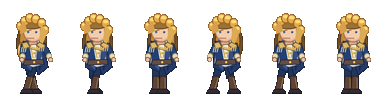
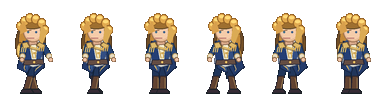
art(review): add Ionia coat and curl follow-through to walk

diff --git a/scripts/make-ionia-walk-review.py b/scripts/make-ionia-walk-review.py
@@ -14,7 +14,8 @@ def draw_pose(frame):
  def line(points,c,w=1):d.line([(P(x),P(y)) for x,y in points],fill=c,width=P(w),joint='curve')
  # all six contact poses have deliberately independent leg silhouettes
  phases=[(-8,7),(-5,4),(0,0),(7,-7),(4,-5),(0,0)]
- f,b=phases[frame];hair_swing=[-2,0,1,2,0,-1][frame]
+ f,b=phases[frame];hair_swing=[-3,-1,0,3,1,-2][frame]
+ coat_sway=[-4,-3,0,4,3,0][frame]
  # long curly blonde hair, deep back mass, separately-shaded curved locks
  ellipse((18+hair_swing,21,49+hair_swing,66),'#735027','#493421')
  ellipse((21+hair_swing,19,46+hair_swing,62),'#c48a39','#5a4029')
@@ -31,9 +32,11 @@ def draw_pose(frame):
   poly([(foot-5,89),(foot+4,89),(foot+7,93),(foot-7,93)],'#352b35','#1b2026')
   line([(knee+2,78),(foot+2,88)],'#97774c',1)
  # captain white undercoat / split navy tails, large expressive silhouette
- poly([(23,41),(43,42),(48,67),(38,75),(34,62),(31,72),(21,67)],'#253c6b','#152441')
- poly([(23,45),(25,64),(31,70),(30,52)],'#375788')
- poly([(42,45),(42,64),(39,71),(37,53)],'#162d53')
+ poly([(23,41),(43,42),(48+coat_sway,67),(38+coat_sway,76),(34,62),(31+coat_sway,73),(21+coat_sway,68)],'#253c6b','#152441')
+ poly([(23,45),(25,64),(31+coat_sway,71),(30,52)],'#375788')
+ poly([(42,45),(42,64),(39+coat_sway,72),(37,53)],'#162d53')
+ line([(25,63),(28+coat_sway,68),(29+coat_sway,70)],'#cfab62',1)
+ line([(42,64),(40+coat_sway,69),(39+coat_sway,71)],'#b9a273',1)
  poly([(26,40),(39,40),(43,64),(33,67),(22,63)],'#e2e0d1','#55617b')
  poly([(22,43),(28,40),(32,63),(24,61)],'#243f75')
  poly([(39,41),(44,45),(40,61),(35,63)],'#324e83')
@@ -91,7 +94,7 @@ strip.save(OUT/'ionia-walk-6frame-review.png')
 hires.save(OUT/'ionia-walk-source-6frame.png')
 frames=[strip.crop((64*i,0,64*(i+1),96)).resize((256,384),Image.Resampling.NEAREST) for i in range(6)]
 frames[0].save(OUT/'ionia-walk-review.gif',save_all=True,append_images=frames[1:],duration=100,loop=0,disposal=2)
-receipt={'status':'ORIGINAL_PROCEDURAL_REVIEW_NOT_ADMITTED','provenance':'hand-authored geometry in scripts/make-ionia-walk-review.py','sourceVersion':1,'frameCell':[64,96],'frames':metrics,'assets':{}}
+receipt={'status':'ORIGINAL_PROCEDURAL_REVIEW_NOT_ADMITTED','provenance':'hand-authored geometry in scripts/make-ionia-walk-review.py','sourceVersion':2,'frameCell':[64,96],'frames':metrics,'assets':{}}
 for name in ['ionia-walk-6frame-review.png','ionia-walk-source-6frame.png','ionia-walk-review.gif']:
  receipt['assets'][name]=hashlib.sha256((OUT/name).read_bytes()).hexdigest()
 (OUT/'source-receipt.json').write_text(json.dumps(receipt,indent=2)+'\n',encoding='utf-8')
